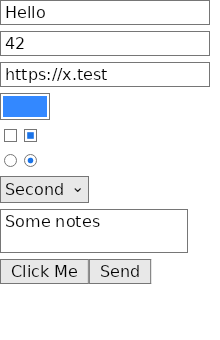
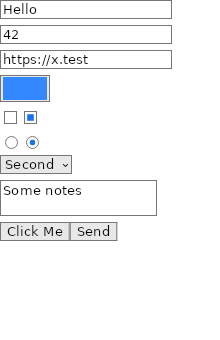
Test fixes

diff --git a/src/AngleSharp.Renderer.Tests/HtmlRendererTests.cs b/src/AngleSharp.Renderer.Tests/HtmlRendererTests.cs
@@ -5428,7 +5428,7 @@ public sealed class HtmlRendererTests
         var valueText = Assert.Single(displayList.Commands.OfType<DrawTextCommand>().Where(t => t.Text == "Hello"));
         // Left-aligned at the content box's own left edge (border + padding in from the box), not
         // centered - matching how a browser shows typed input text.
-        Assert.Equal(background.Rect.X + 1f + 4f, valueText.X, precision: 3);
+        Assert.Equal(background.Rect.X + 1f + 2f, valueText.X, precision: 3);
     }
 
     [Fact]
@@ -5458,13 +5458,15 @@ public sealed class HtmlRendererTests
         var background = Assert.Single(displayList.Commands.OfType<FillRectCommand>().Where(f => f.Color.Equals(new RenderColor(255, 255, 255)) && f.Rect.Width < 300f));
         var valueText = Assert.Single(displayList.Commands.OfType<DrawTextCommand>().Where(t => t.Text == "Hi"));
 
-        // border-top-width 1px + default padding-top 2px, and content height is the authored 60px.
-        var contentTop = background.Rect.Y + 1f + 2f;
+        // border-top-width 1px + default padding-top 1px. Without a doctype an input is border-box
+        // (the quirks mode sheet), so the authored 60px include the border and padding.
+        var contentTop = background.Rect.Y + 1f + 1f;
+        var contentHeight = background.Rect.Height - (2f * (1f + 1f));
         // Mirrors FormControlTextAscentRatio/DescentRatio in HtmlRenderer.cs.
         const float AscentRatio = 0.928f;
         const float DescentRatio = 0.236f;
-        var topGap = (valueText.Y - (20f * AscentRatio)) - contentTop;
-        var bottomGap = (contentTop + 60f) - (valueText.Y + (20f * DescentRatio));
+        var topGap = (valueText.Y - (valueText.FontSize * AscentRatio)) - contentTop;
+        var bottomGap = (contentTop + contentHeight) - (valueText.Y + (valueText.FontSize * DescentRatio));
         Assert.Equal(topGap, bottomGap, precision: 3);
     }
 
@@ -5493,7 +5495,7 @@ public sealed class HtmlRendererTests
         // authored equivalent here, and each authored value must win exactly like it does for any
         // other element, proving the defaults are only gap-fillers and not a fixed native look.
         var document = await ParseAsync("""
-            <html><body>
+            <!doctype html><html><body>
                 <input type="text" value="Hi" style="width:80px; background-color:#ff0000; border: 3px solid #0000ff;" />
             </body></html>
             """);
@@ -5508,10 +5510,11 @@ public sealed class HtmlRendererTests
 
         var background = Assert.Single(displayList.Commands.OfType<FillRectCommand>().Where(f => f.Color.Equals(new RenderColor(255, 0, 0))));
         // Border-box width, not the authored content-width in isolation: default content-box
-        // sizing (unchanged here) adds the border (3px * 2) and the still-default padding (4px * 2,
-        // since only border/background/width were overridden) on top of the authored 80px content
-        // width - 80 + 6 + 8 = 94, the same box-model arithmetic a real browser would apply.
-        Assert.Equal(94f, background.Rect.Width);
+        // sizing (unchanged here, and only in the no-quirks mode, hence the doctype) adds the border
+        // (3px * 2) and the still-default padding (2px * 2, since only border/background/width were
+        // overridden) on top of the authored 80px content width - 80 + 6 + 4 = 90, the same box-model
+        // arithmetic a real browser would apply.
+        Assert.Equal(90f, background.Rect.Width);
 
         Assert.DoesNotContain(displayList.Commands, c => c is FillRectCommand f && f.Color.Equals(new RenderColor(255, 255, 255)) && f.Rect.Width < 300f);
         Assert.DoesNotContain(displayList.Commands, c => c is FillRectCommand f && f.Color.Equals(new RenderColor(118, 118, 118)));
@@ -5673,9 +5676,9 @@ public sealed class HtmlRendererTests
         var background = Assert.Single(displayList.Commands.OfType<FillRectCommand>().Where(f => f.Color.Equals(new RenderColor(255, 255, 255)) && f.Rect.Width is > 100f and < 299f));
         var caret = Assert.Single(displayList.Commands.OfType<FillRectCommand>().Where(f => f.Rect.Width == 1.5f));
 
-        // border-left-width 1px + default padding-left 4px, the same content-edge math the value
+        // border-left-width 1px + default padding-left 2px, the same content-edge math the value
         // text itself is positioned at (see BuildDisplayList_TextLikeInputGetsDefaultChromeAndShowsItsValue).
-        Assert.Equal(background.Rect.X + 1f + 4f, caret.Rect.X, precision: 3);
+        Assert.Equal(background.Rect.X + 1f + 2f, caret.Rect.X, precision: 3);
     }
 
     [Fact]
@@ -5734,7 +5737,7 @@ public sealed class HtmlRendererTests
         var thumb = Assert.Single(displayList.Commands.OfType<FillRectCommand>()
             .Where(command => command.Rect.Width < 100f && !command.Rect.Width.Equals(track.Rect.Width)));
         var thumbCenterX = thumb.Rect.X + (thumb.Rect.Width / 2f);
-        Assert.Equal(25f, thumbCenterX, precision: 1);
+        Assert.Equal(track.Rect.X + 25f, thumbCenterX, precision: 1);
     }
 
     [Fact]
@@ -5756,7 +5759,7 @@ public sealed class HtmlRendererTests
 
         // No `value` authored - defaults to the (min+max)/2 midpoint (0-100 default range), so
         // the thumb sits at 50% along the track.
-        Assert.Equal(50f, thumbCenterX, precision: 1);
+        Assert.Equal(track.Rect.X + 50f, thumbCenterX, precision: 1);
     }
 
     [Fact]
@@ -5945,7 +5948,8 @@ public sealed class HtmlRendererTests
         });
 
         var swatch = Assert.Single(displayList.Commands.OfType<FillRectCommand>().Where(f => f.Color.Equals(new RenderColor(255, 136, 0))));
-        Assert.Equal(40f, swatch.Rect.Height, precision: 3);
+        // a color input is border-box: 40px less the border (1px * 2) and padding (1px * 2)
+        Assert.Equal(36f, swatch.Rect.Height, precision: 3);
     }
 
     [Fact]
@@ -6005,8 +6009,8 @@ public sealed class HtmlRendererTests
         var label = Assert.Single(displayList.Commands.OfType<DrawTextCommand>().Where(t => t.Text == "Second"));
         var arrow = Assert.Single(displayList.Commands.OfType<DrawTextCommand>().Where(t => t.Text == "⌄"));
 
-        // Left-aligned at the content box's own left edge (border + padding in from the box), not
-        // centered.
+        // Left-aligned at the select's own inset from the content box (border + inset in from the
+        // box; its padding is 0), not centered.
         Assert.Equal(background.Rect.X + 1f + 4f, label.X, precision: 3);
 
         // Narrower than a text-like input's default width - shrunk to fit "Second" plus

diff --git a/src/AngleSharp.Renderer/HtmlRenderer.cs b/src/AngleSharp.Renderer/HtmlRenderer.cs
@@ -9414,6 +9414,12 @@ public sealed partial class HtmlRenderer
     /// <summary>The space a select leaves for its arrow, whatever the font size.</summary>
     private const float FormControlSelectArrowSpace = 20f;
 
+    /// <summary>
+    /// Where a native select's label starts in its content box. Part of the control, not its
+    /// padding, which browsers set to 0 (Blink's PopupInternalPaddingStart).
+    /// </summary>
+    private const float FormControlSelectLabelInset = 4f;
+
     /// <summary>What a select adds to the height of its line.</summary>
     private const float FormControlSelectVerticalSpace = 2f;
 
@@ -9934,6 +9940,7 @@ public sealed partial class HtmlRenderer
                 var baselineY = contentY + verticalCenteringOffset + (textStyle.FontSize * FormControlTextAscentRatio) + textStyle.VerticalAlignOffset;
                 RecordTextBaseline(baselineY - textStyle.VerticalAlignOffset);
                 var labelWidth = label.Length > 0 ? MeasureTextWidth(context, label, textStyle) : 0f;
+                var labelInset = kind == FormControlKind.Select ? FormControlSelectLabelInset : 0f;
 
                 if (label.Length > 0)
                 {
@@ -9942,7 +9949,7 @@ public sealed partial class HtmlRenderer
                     // centered in its box instead.
                     var labelX = kind == FormControlKind.Button
                         ? contentX + Math.Max(0f, (contentWidth - labelWidth) / 2f)
-                        : contentX;
+                        : contentX + labelInset;
 
                     DrawStyledText(context, displayList, label, labelX, baselineY, textStyle, decorate: false);
                 }
@@ -9954,7 +9961,7 @@ public sealed partial class HtmlRenderer
                 if (kind == FormControlKind.Select)
                 {
                     var arrowWidth = MeasureTextWidth(context, FormControlSelectArrowGlyph, textStyle);
-                    var arrowX = contentX + Math.Max(labelWidth, contentWidth - arrowWidth);
+                    var arrowX = contentX + Math.Max(labelInset + labelWidth, contentWidth - arrowWidth);
                     var arrowBaselineY = baselineY + (textStyle.FontSize * FormControlSelectArrowVerticalOffsetRatio);
                     DrawStyledText(context, displayList, FormControlSelectArrowGlyph, arrowX, arrowBaselineY, textStyle, decorate: false);
                 }

diff --git a/src/AngleSharp.Renderer.Tests/VisualConformanceTests.cs b/src/AngleSharp.Renderer.Tests/VisualConformanceTests.cs
@@ -2267,6 +2267,7 @@ public sealed class VisualConformanceTests
               <head><style>
                 html, body { margin: 0; padding: 0; }
                 div.row { margin-bottom: 6px; }
+                input, select, textarea, button { font-family: sans-serif; }
               </style></head>
               <body>
                 <div class="row"><input type="text" value="Hello" /></div>
@@ -2311,7 +2312,7 @@ public sealed class VisualConformanceTests
         // "somewhat overridable" native chrome without needing a `appearance: none` escape hatch.
         var document = await ParseAsync("""
             <html>
-              <head><style>html, body { margin: 0; padding: 0; }</style></head>
+              <head><style>html, body { margin: 0; padding: 0; } input, select, textarea, button { font-family: sans-serif; }</style></head>
               <body>
                 <input type="text" value="Default" style="display:block; margin-bottom:8px;" />
                 <input type="text" value="Custom" style="display:block; width:100px; background-color:#fff6d5; border:3px solid #cc6600; border-radius:8px;" />
@@ -2578,7 +2579,7 @@ public sealed class VisualConformanceTests
         var document = await ParseAsync("""
             <html>
               <head>
-                <style>html, body { margin: 0; padding: 0; background-color: white; }</style>
+                <style>html, body { margin: 0; padding: 0; background-color: white; } input, select, textarea, button { font-family: sans-serif; }</style>
               </head>
               <body>
                 <input id="target" type="text" value="Hi" style="margin:10px;" />

diff --git a/src/AngleSharp.Renderer.Tests/ElementCssomViewExtensionsTests.cs b/src/AngleSharp.Renderer.Tests/ElementCssomViewExtensionsTests.cs
@@ -434,7 +434,7 @@ public sealed class ElementCssomViewExtensionsTests
     {
         var document = await ParseAsync($$"""
             <html>
-              <head><style>html, body { margin: 0; } * { box-sizing: border-box; } #c { font-size: 16px; line-height: 1.5; padding: 6.5px 40px; border: 1.5px solid black; }</style></head>
+              <head><style>html, body { margin: 0; } * { box-sizing: border-box; } #c { font-family: sans-serif; font-size: 16px; line-height: 1.5; padding: 6.5px 40px; border: 1.5px solid black; }</style></head>
               <body><{{control}} id="c"></{{control}}></body>
             </html>
             """);

diff --git a/src/AngleSharp.Renderer.Tests/SiteRegressionTests.cs b/src/AngleSharp.Renderer.Tests/SiteRegressionTests.cs
@@ -871,7 +871,7 @@ public sealed class SiteRegressionTests
     public async Task TableCell_IsAlignedByWhatItHoldsWhateverItsHeight(string align, double top)
     {
         var document = await OpenAsync($$"""
-            <style>body { margin: 0; font: 16px/20px sans-serif } table { border-spacing: 0 } td { padding: 0 }</style>
+            <style>body { margin: 0 } table { border-spacing: 0; font: 16px/20px sans-serif } td { padding: 0 }</style>
             <table><tr><td style="height: 60px; vertical-align: {{align}}"><div id="content">x</div></td></tr></table>
             """);
 

diff --git a/AGENTS.md b/AGENTS.md
@@ -136,7 +136,7 @@ Every text feature exists twice - in the paragraph path (whole lines as strings)
 `HtmlRenderer.Tables.cs`. Structure comes from computed `display` (header-group rows first, footer-group rows last); only `colspan`/`rowspan`/`span` are attributes. Anonymous table objects (CSS 2.1 §17.2.1) are built into the render tree right after `window.Render` (`BuildAnonymousTableBoxes`), so everything downstream (style maps, writing modes, intrinsic sizes, inline collection) sees well-formed tables: an anonymous box is a detached `div` whose computed style is `display` plus the parent's inherited properties (`CanBeInherited`), so the rest is initial; it is its own specified style (no cascade reaches it) and hit testing skips it (`s_anonymousTableBoxes`). Moved children keep their original `Parent`. White space between table parts is dropped; whitespace and `display: none` never start a run. `GetTableStructure` runs once per render (`LayoutContext.TableStructures`) because the collapsing border model rewrites style maps: each grid line takes the widest border meeting there (`hidden` suppresses it), cells and the table keep half of each line as a transparent border for layout, and `PaintCollapsedBorders` paints the lines (solid only) over the cells, vertical ones first so horizontal ones keep their color at crossings, and of two equally wide borders the one further up or left wins; a collapsed table has no padding. Column widths: automatic layout (per-column min/max-content, spanning cells spread their excess by max-content, the table shrink-to-fit unless it has a width) or `table-layout: fixed`. Cells go through `LayoutNode` with `forcedBorderBoxWidth`/`forcedBorderBoxHeight` (stretched to their rows) and `contentOffsetY` for `vertical-align`; `baseline` cells share the row's first baseline (`TrialLayout`'s `FirstBaselineY`). Column-group/column/row-group/row backgrounds paint per cell. `visibility: collapse` on rows/columns (and their groups) removes them and their spacing after the column widths are computed; cells living only there are not laid out. `empty-cells: hide` skips an empty cell's box and the part backgrounds behind it (separated model only). A percentage table height resolves against the containing block's definite height (`containingHeight`), else is `auto`. Percentage row and cell heights refer to the table's definite height, else count for nothing; cell percentages are moved out of the cell's style map (`TableCellInfo.PercentHeight`) so `LayoutElement` never resolves them against a width. Tables get no transform/opacity/filter scopes.
 
 ### Form controls
-- A form control's look (border, padding, background, margins, round radio) comes from the UA stylesheet. `ApplyFormControlDefaults` only fills in the element-derived intrinsic size (text fields 150px, checkbox/radio from font size, buttons/selects/file inputs from their label) when `width`/`height` are unset.
+- A form control's look (border, padding, background, margins, round radio, the `13.3333px Arial` font) comes from the UA stylesheet. A native select's padding is 0 there; its label inset (`FormControlSelectLabelInset`) and arrow space belong to the control. `ApplyFormControlDefaults` only fills in the element-derived intrinsic size (text fields 150px, checkbox/radio from font size, buttons/selects/file inputs from their label) when `width`/`height` are unset.
 - `PaintFormControl` paints values, labels, the selected option, checked fills, color swatches, range track/thumb and file inputs; `<option>`s and button labels are excluded from child layout. `<textarea>` flows its text normally, unless its live `Value` differs from its child text: then the children are skipped and the value is painted. State is always the live DOM state (`IHtmlInputElement.Value`/`IsChecked`, `IHtmlOptionElement.IsSelected`), never the attributes. Placeholders paint with the computed `::placeholder` style (`ResolvePlaceholderTextStyle`, via `LayoutContext.StyleCollection`; the UA sheet gives it `color: darkgray`). `type=hidden` gets no chrome (hiding it is the UA sheet's job).
 - `input[type=image]` is a replaced element when its `src` loads, else a button labelled with `alt` (default "Submit"). The date/time family (`FormControlKind.DateTime`) shows its value formatted as en-US browsers do (`FormatDateTimeInputValue`; invalid values show the segmented placeholder) beside a calendar or clock icon (`PaintPickerIcon`). `accent-color` (read from the style map, `auto` = `FormControlAccentColor`) colors checked checkboxes/radios and the range thumb.
 - Labels center on ink using `FormControlTextAscentRatio`/`DescentRatio` (font-size fractions measured from the bundled font). The select arrow glyph `⌄` has its own vertical correction.
@@ -167,6 +167,8 @@ Follow `.editorconfig` and nearby code: 4 spaces (2 in `.csproj`), LF, UTF-8, no
 - Visual tests: `VisualConformanceTests.cs` compares PNGs against `verification-assets/`; `CaseRenderingTests.cs` renders full pages from `cases/`. Failures write actual + diff images to `failure-assets/` (diagnostics, not source of truth).
 - Missing baselines are auto-created unless `ANGLESHARP_SNAPSHOT_STRICT=1`/`true` (CI always sets it). `ANGLESHARP_SNAPSHOT_UPDATE=1` overwrites the current platform's baselines.
 - Update or add tests first when changing renderer behavior.
+- Form controls use the UA sheet's `Arial`, an installed family (Liberation Sans on Linux, if present), so snapshots and font-dependent assertions must set a generic `font-family` on them.
+- Test documents usually have no doctype, so they are in quirks mode: inputs and textareas are `border-box`, and tables do not inherit font and alignment.
 
 ### Platform matrix
 

diff --git a/CHANGELOG.md b/CHANGELOG.md
@@ -2,6 +2,8 @@
 
 Released on Wednesday, November 4 2026.
 
+- Updated to AngleSharp.Css 1.3.2, whose default style gives form controls the font, padding, margins and `box-sizing` of browsers
+- Fixed the label of a native select touching its border now that its default padding is 0
 - Fixed synthesized small caps: digits, punctuation and spaces keep the full size with `small-caps` and are reduced with `all-small-caps`, `unicase` reduces everything but lowercase letters instead of acting as `small-caps`, `ß` and Latin ligatures become their capitals, letter spacing applies where the size changes, and a decoration crosses spaces in one size
 - Fixed spaces between words of a fallback font being as wide as that font's space instead of the first font's
 - Fixed the background and border of inline boxes around right-to-left text starting at the left of the page, and the left and right padding, border and margin of such boxes changing places
